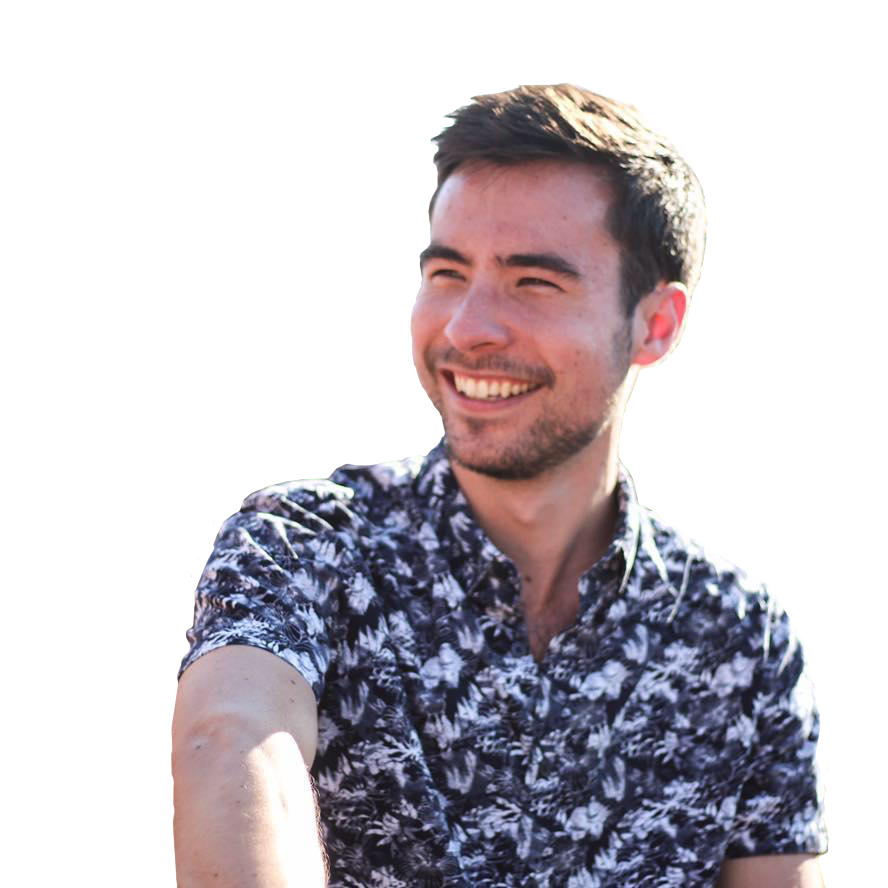
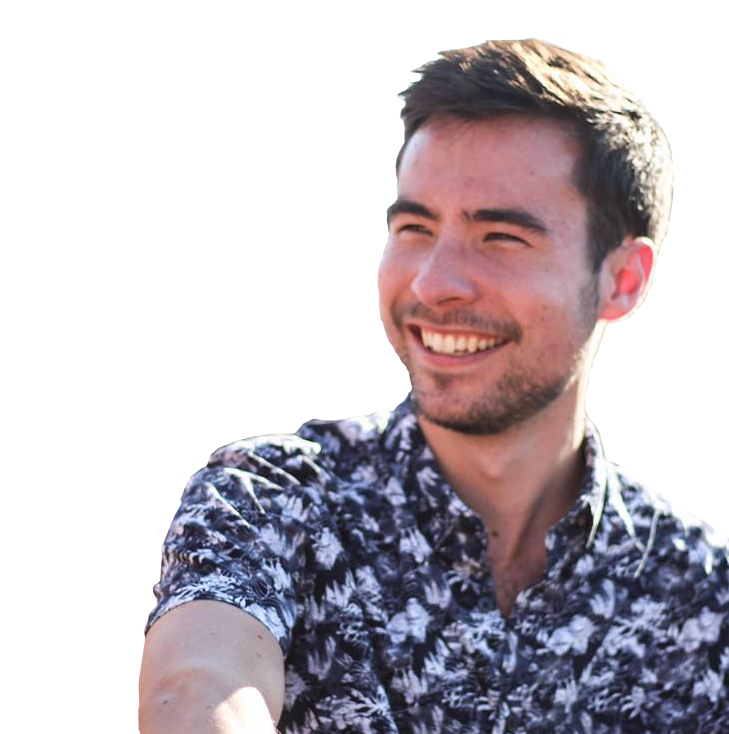
Created a devTwo to try out fixing bugs in the display and I got it to work! Pushing devTwo into dev branch

diff --git a/styles.css b/styles.css
@@ -16,6 +16,14 @@ body {
     flex-wrap: wrap;
 }
 
+h2{
+    font-family: 'Source Sans Pro', sans-serif;
+    font-weight: 300;
+    letter-spacing: .2em;
+    line-height: 0px;
+    font-size: xx-large;
+}
+
 @keyframes fadeInOpacity {
     0% {
         opacity: 0;;
@@ -46,7 +54,7 @@ nav {
 }
 
 nav .topbar {
-    height: 70px;
+    height: 10%;
     display: flex;
     flex-wrap: wrap;
     justify-content: space-between;
@@ -59,7 +67,7 @@ nav .topbar {
 
 nav .top.expanded {
     height: 100%;
-    background-color: rgb(255, 255, 255,0.65);
+    background-color: rgb(255, 255, 255,0.95);
     /* display: none; */
     position: fixed;
     width: 100%;
@@ -67,8 +75,8 @@ nav .top.expanded {
     top: -100%;
     transition-delay: 0.1s;
     transition: all 600ms ease;
-    z-index: 1;
-    margin-top: 75px;
+    z-index: 2;
+    margin-top: 85px;
     
 }
 
@@ -103,7 +111,7 @@ nav .x {
 nav ul {
     list-style: none;
     display: flex;
-    height: 60%;
+    height: 50%;
     flex-wrap: wrap;
     align-content: center;
     justify-content: center;
@@ -122,11 +130,14 @@ nav li {
     background-color: #5f6d6a;
 }
 
+nav .links {
+    height: 22%;
+}
+
 nav .top.expanded .links{
     display: flex;
     flex-wrap: wrap;
     justify-content: center;
-    height: 10%;
 }
 
 nav .top.expanded .links img {
@@ -139,7 +150,7 @@ nav .top.expanded .views{
     display: flex;
     flex-wrap: wrap;
     justify-content: center;
-    height: 12.5%;
+    height: 8%;
 }
 
 nav .top.expanded .views img {
@@ -161,7 +172,8 @@ nav .top.expanded .views img {
 }
 
 nav .bottombar {
-    height: 20px;
+    /* position: relative; */
+    height: 10%;
     padding-right: 5%;
     display: flex;
     flex-wrap: wrap;
@@ -170,7 +182,6 @@ nav .bottombar {
     color: #5f6d6a;
     opacity: 1;
     margin-top: 0;
-    position: relative;
     bottom: 0;
 }
 
@@ -203,13 +214,21 @@ main {
 }
 
 .viewscreen {
-    height: 90%;
-    width: 90%;
+    height: 80vh;
+    width: 80%;
+    padding-left: 20px;
+    padding-top: 10px;
+    padding-right: 20px;
+    padding-bottom: 20px;
     color: #5f6d6a;
     letter-spacing: .0em;
     font-size: large;
     overflow: hidden;
-    border-radius: 3px;;
+    border-radius: 3px;
+    display: flex;
+    flex-wrap: nowrap;
+    background-color: rgb(236, 236, 236, .9);
+
 }
 .viewscreen a{
     /* text-decoration: none; */
@@ -219,97 +238,81 @@ main {
 
 /* Home Section Content */
 .viewscreen .home{
-    position: relative;
-    width: 100%;
-    height: 100%;
     right: -120%;
-    /* right: 0; */
-    background-color: rgb(236, 236, 236, .9);
+    display: none;
 }
 
 .viewscreen .home.visible{
-    right: 0;
     animation-name: fadeInOpacity;
 	animation-iteration-count: 1;
 	animation-timing-function: ease-in;
 	animation-duration: 1s;
-    display: flex;
-    flex-wrap: wrap;
-    justify-content: right;
+    width: 100%;
     overflow-y: auto;
+    display: flex;
 }
 
-.home .house {
-  font-variation-settings:
-  'FILL' 0,
-  'wght' 500,
-  'GRAD' 0,
-  'opsz' 48;
+.home .material-symbols-outlined {
+    font-variation-settings:
+    'FILL' 0,
+    'wght' 600,
+    'GRAD' 0,
+    'opsz' 48;
+    position: relative;
+    top: 5px;
 }
 
-.home .text{
-    padding-left: 20px;
-    padding-right: 20px;
-    padding-top: 20px;
-    padding-bottom: -20px;
-}
+
 
 .home #profilepic{
-    position: fixed;
+    position: absolute;
     width: 200px;
     height: 200px;
+    z-index: 1;
+    right: 0;
     bottom: 0;
     align-self: flex-end;
+    /* display: none; */
 }
 
 .viewscreen .bio{
-    position: relative;
-    width: 100%;
-    height: 100%;
-    top: -100%;
-    right: -120%;
-    background-color: rgb(245, 245, 245,.75);
+    display: none;
 }
 
 .viewscreen .bio.visible{
-    right: 0;
-    opacity: 1;
 	animation-name: fadeInOpacity;
 	animation-iteration-count: 1;
 	animation-timing-function: ease-in;
 	animation-duration: 1s;
+    width: 100%;
+    overflow-y: auto;
+    display: block;
 }
 .viewscreen .projects{
-    position: relative;
-    width: 100%;
-    height: 100%;
-    top: -200%;
-    right: -120%;
-    background-color: rgb(245, 245, 245,.75);
+    display: none;
 }
 
 .viewscreen .projects.visible{
-    right: 0;
-    animation-name: fadeInOpacity;
+	animation-name: fadeInOpacity;
 	animation-iteration-count: 1;
 	animation-timing-function: ease-in;
 	animation-duration: 1s;
+    width: 100%;
+    overflow-y: auto;
+    display: block;
 }
 .viewscreen .resume{
-    position: relative;
-    width: 100%;
-    height: 100%;
-    top: -300%;
-    right: -120%;
-    background-color: rgb(245, 245, 245,.75);
+    display: none;
 }
 
 .viewscreen .resume.visible{
-    right: 0;
-    animation-name: fadeInOpacity;
+	animation-name: fadeInOpacity;
 	animation-iteration-count: 1;
 	animation-timing-function: ease-in;
 	animation-duration: 1s;
+    width: 100%;
+    overflow-y: auto;
+    display: block;
 }
 
 
@@ -372,13 +375,14 @@ nav .bottombar.fish{
     }
     nav .top.expanded {
         display: block;
+        height: 100%;
         width: 300px;
         background-color: rgb(95, 109, 106, 0.4);
         top: 0;
         margin-top: 0;
         transition-delay: 0.1s;
         transition: all 600ms ease;
-    }
+        }
 
     nav .bottombar {
         display:none;
@@ -443,6 +447,11 @@ nav .bottombar.fish{
     main {
         width:auto;
         font-weight: 400;
+    }
+
+    .viewscreen {
+        height: 80%;
+        width: 80%;
     }
 
     .home #profilepic {

diff --git a/index.html b/index.html
@@ -7,7 +7,7 @@
     <title>Mike Krueger</title>
     <!-- import css and fonts from Google Fonts -->
     <link rel="stylesheet" href="styles.css">
-    <style> @import url('https://fonts.googleapis.com/css2?family=Source+Sans+Pro:wght@300;400&display=swap'); </style>
+    <style> @import url('https://fonts.googleapis.com/css2?family=Source+Sans+Pro:wght@300;400;700&display=swap'); </style>
     <!-- import Google Icons -->
     <link rel="stylesheet" href="https://fonts.googleapis.com/css2?family=Material+Symbols+Outlined:opsz,wght,FILL,GRAD@20..48,100..700,0..1,-50..200" />
     <!-- import JavaScript -->
@@ -57,30 +57,21 @@
         <section class="viewscreen">
             <div class="home visible">
                 <div class="text">
-                    Hello, welcome to my portfolio site! I am a self starter, strong communicator, and average rock climber. <br><br>I am a software engineer with a knack for building clean websites and easy-to-use tools. I build with HTML, CSS, JavaScript, Google Apps Script, and more. Check out my BIO to learn more about projects I am currently building. To contact me, click my email below.<br><br>
-                    <span class="material-symbols-outlined house">cottage</span>&nbsp&nbspDenver, CO <br>
-                    <span class="material-symbols-outlined house">mail</span>&nbsp&nbsp<a href = "mailto: mickrueg@gmail.com">mickrueg@gmail.com </a>
-                    A bunch more content <br><br> 
-                    A bunch more content <br><br> 
-                    A bunch more content <br><br> 
-                    A bunch more content <br><br> 
-                    A bunch more content <br><br> 
-                    A bunch more content <br><br> 
-                    A bunch more content <br><br> 
-                    A bunch more content <br><br> 
-                    A bunch more content <br><br> 
+                    <h2>HOME</h2><br>
+                    &nbsp; &nbsp; &nbsp; &nbsp; Hello, welcome to my portfolio site! I am a <b>self starter, strong communicator,</b> and <b>average rock climber.</b><br><br>&nbsp; &nbsp; &nbsp; &nbsp; I am a <b>software engineer</b> with a knack for building clean websites and easy-to-use tools. I build with HTML, CSS, JavaScript, Google Apps Script, and more. Check out my bio to learn more about projects I am currently building. please contact me at the email below.<br><br>
+                    &nbsp; &nbsp; &nbsp; &nbsp;<span class="material-symbols-outlined">cottage</span>&nbsp&nbspDenver, CO <br>
+                    &nbsp; &nbsp; &nbsp; &nbsp;<span class="material-symbols-outlined">mail</span>&nbsp&nbsp<a href = "mailto: mickrueg@gmail.com">mickrueg@gmail.com</a> <br><br> <br><br> <br><br> <br><br>
                 </div>
                 <img src="./assets/head.png" alt="profile picture with transparent background" id="profilepic">
-
             </div>
             <div class="bio">
-                BIO CONTENT
+                <h2>BIO</h2><br>
             </div>
             <div class="projects">
-                PROJECTS
+                <h2>PROJECTS</h2><br>
             </div>
             <div class="resume">
-                RESUME RESUME
+                <h2>RESUME</h2><br>
             </div>
         </section>
     </main>
